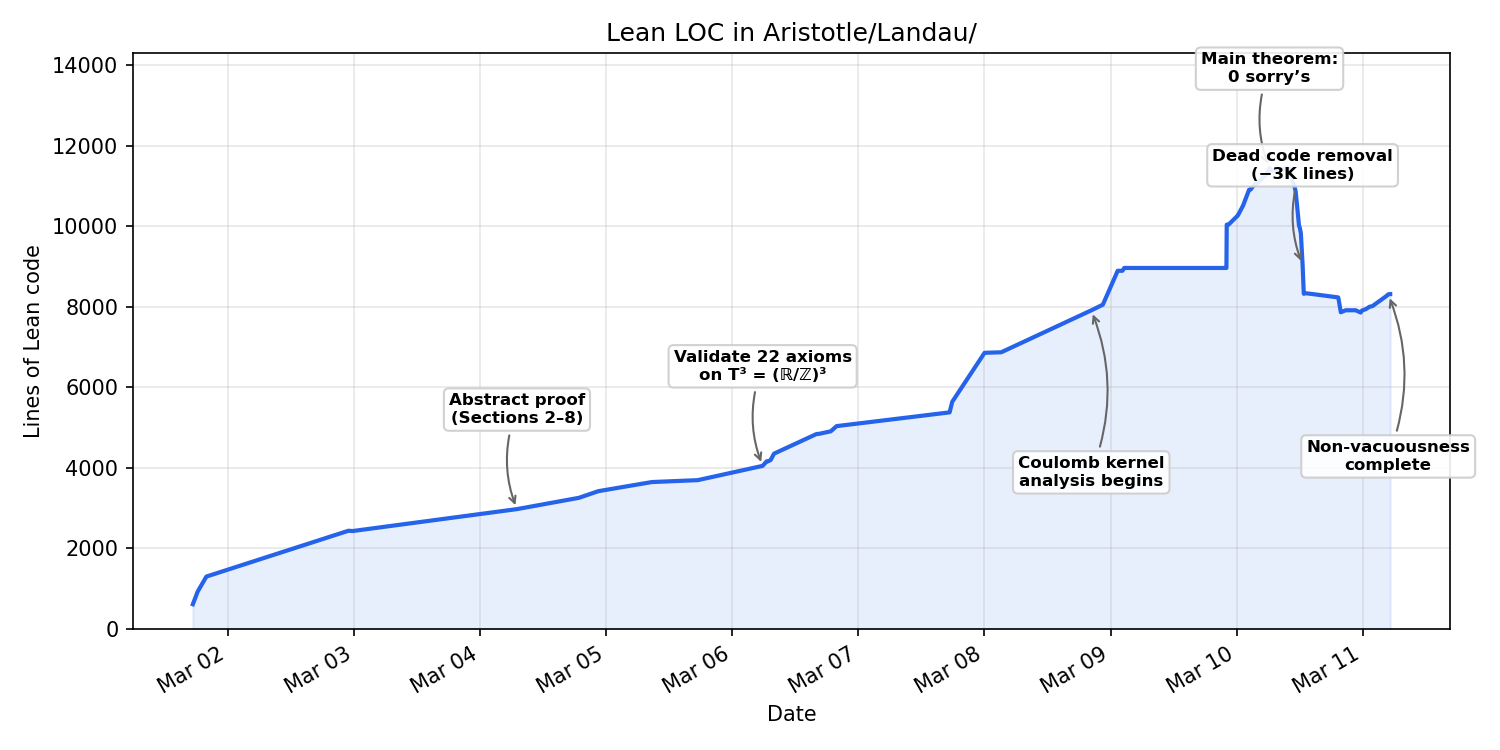
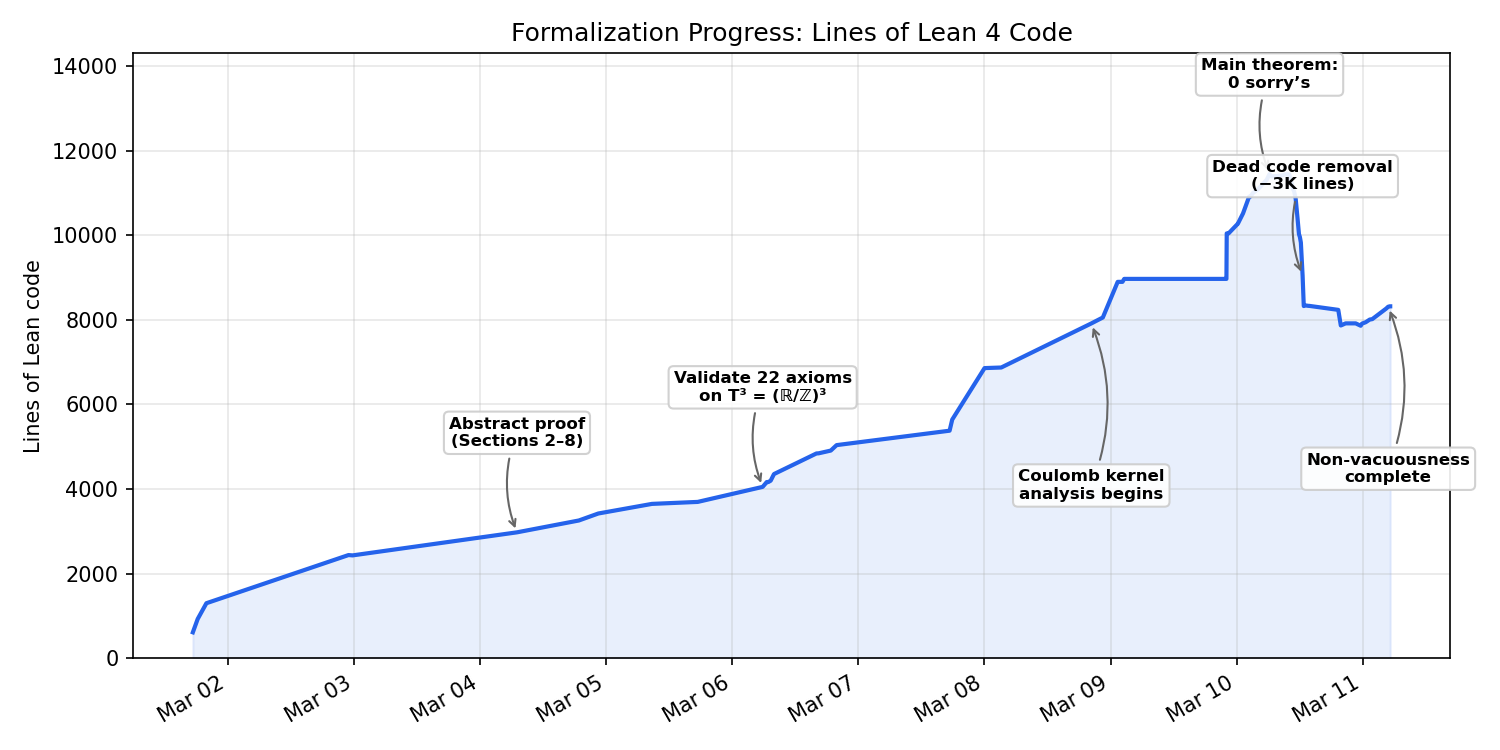
update plot

diff --git a/scripts/loc_history.py b/scripts/loc_history.py
@@ -105,9 +105,9 @@ def main():
         fig, ax = plt.subplots(figsize=(10, 5))
         ax.plot(dates, locs, color="#2563eb", linewidth=2)
         ax.fill_between(dates, locs, alpha=0.1, color="#2563eb")
-        ax.set_xlabel("Date")
+        ax.set_xlabel("")
         ax.set_ylabel("Lines of Lean code")
-        ax.set_title("Lean LOC in Aristotle/Landau/")
+        ax.set_title("Formalization Progress: Lines of Lean 4 Code")
         ax.xaxis.set_major_formatter(mdates.DateFormatter("%b %d"))
         ax.xaxis.set_major_locator(mdates.DayLocator(interval=1))
         fig.autofmt_xdate()
